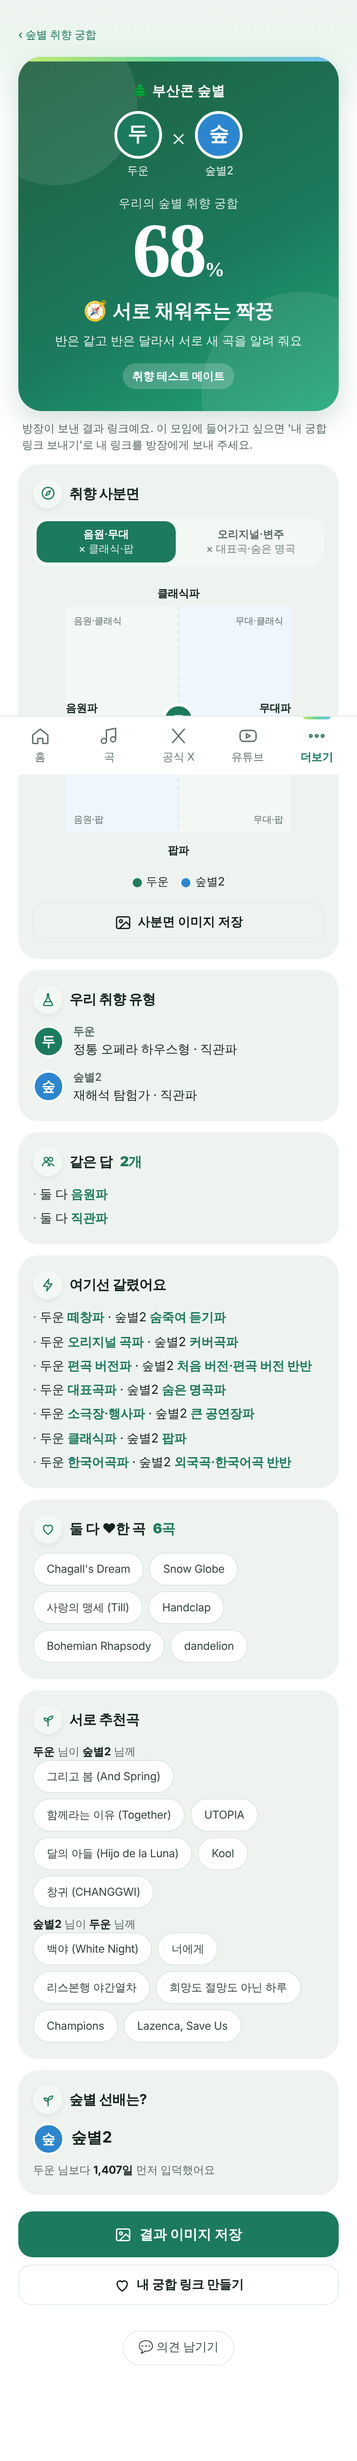
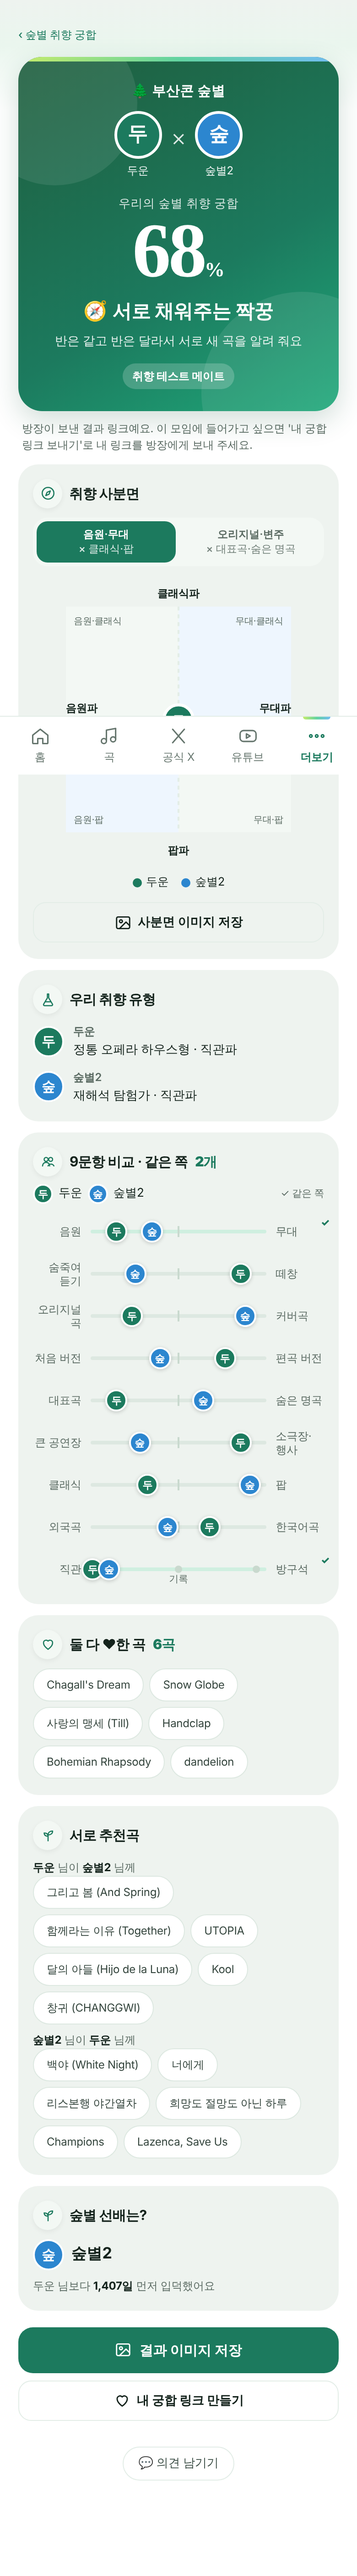
v625: 2명방 9문항 비교를 선 위 두 사람 점으로, '우리 모임은' 막대 색 테마 따라감
Claude-Session: https://claude.ai/code/session_01MGTh9zKioiZsMkgnkSk7j5

diff --git a/style.css b/style.css
@@ -2229,12 +2229,12 @@ a.wt-yes { display: flex; align-items: center; text-decoration: none; }
 .mt-rb b { font-size: 14px; overflow: hidden; text-overflow: ellipsis; white-space: nowrap; }
 .mt-rb small { font-size: 12px; color: var(--mute, #6B7A70); }
 .mt-rb-x { position: absolute; top: 50%; margin-top: -14px; right: 8px; width: 28px !important; height: 28px !important; z-index: 1; width: 26px; height: 26px; border: 0; background: none; color: var(--mute, #6B7A70); font-size: 16px; cursor: pointer; border-radius: 50%; }
-.mt-rb-add { flex-direction: row; align-items: center; justify-content: center; gap: 6px; padding: 10px 12px; border-style: dashed; background: none; font: inherit; font-size: 13.5px; font-weight: 700; color: var(--accent, #1C7A5E); cursor: pointer; }
+.mt-rb-add { flex-direction: row; align-items: center; justify-content: center; gap: 6px; padding: 10px 12px; border-style: dashed; background: none; font: inherit; font-size: 13.5px; font-weight: 700; color: var(--green); cursor: pointer; }
 .mt-rb-add span { font-size: 18px; line-height: 1; }
 .mt-room-again { width: 100%; margin: 8px 0 0; }
 .mt-room-z { display: grid; grid-template-columns: repeat(3, minmax(0, 1fr)); gap: 6px; }
 .mt-room-z label { display: grid; gap: 2px; padding: 10px 6px; border: 1px solid var(--line); border-radius: 12px; text-align: center; cursor: pointer; }
-.mt-room-z label:has(input:checked) { border-color: var(--accent, #1C7A5E); background: var(--tint-1, #F1F6F2); }
+.mt-room-z label:has(input:checked) { border-color: var(--green); background: var(--tint-1, #F1F6F2); }
 .mt-room-z input { position: absolute; opacity: 0; pointer-events: none; }
 .mt-room-z b { font-size: 13.5px; }
 .mt-room-z small { font-size: 11.5px; color: var(--mute, #6B7A70); }
@@ -2247,7 +2247,7 @@ a.wt-yes { display: flex; align-items: center; text-decoration: none; }
 .mt-ro-x { width: 28px; height: 28px; border: 0; background: none; color: var(--mute, #6B7A70); font-size: 17px; cursor: pointer; border-radius: 50%; }
 .mt-bars { list-style: none; margin: 0; padding: 0; display: grid; gap: 7px; }
 .mt-bars li { display: grid; grid-template-columns: 56px 1fr 22px; align-items: center; gap: 8px; font-size: 13px; }
-.mt-bars i { display: block; height: 10px; border-radius: 6px; background: var(--accent, #1C7A5E); min-width: 6px; }
+.mt-bars i { display: block; height: 10px; border-radius: 6px; background: var(--green); min-width: 6px; }
 .mt-bars b { text-align: right; }
 .mt-rb-add { min-height: 48px; }
 .mt-ed .mt-merge { margin-top: 12px; }
@@ -2262,9 +2262,26 @@ a.wt-yes { display: flex; align-items: center; text-decoration: none; }
 .mt-split .on { color: var(--ink, #1E2A22); font-weight: 700; }
 .sp-bar { display: flex; height: 24px; border-radius: 12px; overflow: hidden; background: var(--tint-1, #F1F6F2); }
 .sp-bar i { display: flex; align-items: center; justify-content: center; min-width: 22px; font-style: normal; font-size: 12px; font-weight: 700; color: #fff; white-space: nowrap; overflow: hidden; }
-.sp-bar .a { background: var(--accent, #1C7A5E); }
-.sp-bar .b { background: #2C86CF; }
+.sp-bar .a { background: var(--green); }
+.sp-bar .b { background: var(--h2c86cf, #2C86CF); }
 .sp-bar .h { background: var(--tint-2, #C9D9CE); color: var(--ink, #1E2A22); font-weight: 600; font-size: 11px; }
 .mt-card h2 { position: relative; flex-wrap: wrap; }
 .mt-card h2 span.help-pop { display: block; position: static; flex-basis: 100%; width: auto; height: auto; max-width: none; border-radius: 12px; background: #fff; box-shadow: 0 4px 14px rgba(28, 74, 56, 0.1); font-size: 12.5px; font-weight: 400; place-items: initial; }
 .mt-card h2 span.help-pop[hidden] { display: none; }
+/* 2명: 9문항 비교 선 */
+.pv-leg { display: flex; align-items: center; gap: 6px; flex-wrap: wrap; font-size: 13px; margin: -2px 0 10px; }
+.pv-leg .mt-av { width: 22px; height: 22px; font-size: 11px; }
+.pv-leg small { margin-left: auto; color: var(--muted); }
+.mt-pv { list-style: none; margin: 0; padding: 0; display: grid; gap: 6px; }
+.mt-pv li { position: relative; display: grid; grid-template-columns: 4.4em 1fr 4.4em; align-items: center; gap: 10px; min-height: 40px; font-size: 12px; color: var(--muted); }
+.mt-pv li.ok::after { content: '✓'; position: absolute; right: -6px; top: 2px; font-size: 11px; font-weight: 800; color: var(--green); }
+.pv-l { text-align: right; word-break: keep-all; line-height: 1.25; }
+.pv-r { word-break: keep-all; line-height: 1.25; }
+.pv-tr { position: relative; height: 4px; border-radius: 2px; background: var(--tint-2); }
+.mt-pv li.ok .pv-tr { background: var(--hcfefe0, #CFEFE0); }
+.pv-tr em { position: absolute; top: -4px; width: 2px; height: 12px; margin-left: -1px; background: var(--hc9d9ce, #C9D9CE); font-style: normal; }
+.pv-3 em { width: 8px; height: 8px; top: -2px; margin-left: -4px; border-radius: 50%; }
+.pv-3 em:nth-child(2) { font-size: 10.5px; line-height: 30px; text-indent: 0; white-space: nowrap; display: flex; justify-content: center; color: var(--muted); }
+.pv-dot { position: absolute; top: 50%; width: 24px; height: 24px; margin: -12px 0 0 -12px; border-radius: 50%; border: 2px solid #fff; display: grid; place-items: center; font-style: normal; font-size: 11px; font-weight: 700; color: #fff; box-shadow: 0 1px 4px rgba(0,0,0,.18); }
+.pv-dot.l { margin-left: -21px; }
+.pv-dot.r { margin-left: -3px; }

diff --git a/app.js b/app.js
@@ -5552,10 +5552,16 @@
       const side = (t, i) => { if (i === 8) return +t[16]; const v = tsVals(t)[i]; return v < 38 ? 0 : v > 62 ? 1 : 2; },
         lab = (i, v) => i === 8 ? TS_STYLE.o[v][1] : v === 2 ? `${tsShort(TS_Q[i], 0)}·${tsShort(TS_Q[i], 1)} 반반` : TS_Q[i].p[v];
       if (tp.length === 2) {
-        const [[a], [b]] = tp, same = [], diff = [];
-        for (let i = 0; i < 9; i++) { const x = side(a.t, i), y = side(b.t, i); (x === y ? same : diff).push(x === y ? `둘 다 <b>${lab(i, x)}</b>` : `${esc(a.n)} <b>${lab(i, x)}</b> · ${esc(b.n)} <b>${lab(i, y)}</b>`); }
-        cards.push(card1('🤝', `같은 답 <b>${same.length}개</b>`, same.length ? `<ul class="ts-lines">${same.map(x => `<li>${x}</li>`).join('')}</ul>` : '<p class="mt-sub">하나도 안 겹쳐요. 그래서 더 재밌어요</p>'));
-        if (diff.length) cards.push(card1('⚡', '여기선 갈렸어요', `<ul class="ts-lines">${diff.map(x => `<li>${x}</li>`).join('')}</ul>`));
+        // 2명: 문항마다 한 줄 선 위에 두 사람 점 (실제 답 위치), 같은 쪽이면 ✓
+        const [[a, ai], [b, bi]] = tp, SL = [L3('직관', 'Live', '現場'), L3('기록', 'Records', '記録'), L3('방구석', 'At home', 'おうち')];
+        const dot = (p, ci, x, up) => `<i class="pv-dot${up === 'r' ? ' r' : up ? ' l' : ''}" style="left:${6 + x * 0.88}%;background:${MT_COL[ci % MT_COL.length]}">${esc([...p.n][0] || '?')}</i>`;
+        let same = 0;
+        const rowsH = [...Array(9).keys()].map(i => { const ok = side(a.t, i) === side(b.t, i); if (ok) same++;
+          if (i === 8) { const xa = [0, 50, 100][+a.t[16]], xb = [0, 50, 100][+b.t[16]];
+            return `<li class="${ok ? 'ok' : ''}"><span class="pv-l">${SL[0]}</span><span class="pv-tr pv-3"><em style="left:6%"></em><em style="left:50%">${SL[1]}</em><em style="left:94%"></em>${dot(a, ai, xa, ok)}${dot(b, bi, xb, ok ? 'r' : false)}</span><span class="pv-r">${SL[2]}</span></li>`; }
+          const va = tsVals(a.t)[i], vb = tsVals(b.t)[i], near = Math.abs(va - vb) < 9;
+          return `<li class="${ok ? 'ok' : ''}"><span class="pv-l">${tsShort(TS_Q[i], 0)}</span><span class="pv-tr"><em style="left:50%"></em>${dot(a, ai, va, near)}${dot(b, bi, vb, near ? 'r' : false)}</span><span class="pv-r">${tsShort(TS_Q[i], 1)}</span></li>`; }).join('');
+        cards.push(card1('🤝', `${L3('9문항 비교', 'All 9 answers', '9問の比較')} · ${L3('같은 쪽', 'same side', '同じ側')} <b>${same}${L3('개', '', '問')}</b>`, `<div class="pv-leg">${mtAv(a, ai)} ${esc(a.n)} ${mtAv(b, bi)} ${esc(b.n)} <small>${L3('✓ 같은 쪽', '✓ same side', '✓ 同じ側')}</small></div><ul class="mt-pv">${rowsH}</ul>`));
       } else {
         // 문항마다 한 줄 막대: 왼쪽 답 | 반반(연한 칸) | 오른쪽 답, 칸 안에 사람 수
         const rows = [...Array(9).keys()].map(i => { const c = [0, 0, 0]; tp.forEach(([p]) => c[side(p.t, i)]++); return { i, c }; });

diff --git a/index.html b/index.html
@@ -23,7 +23,7 @@
 <link href="https://fonts.googleapis.com/css2?family=Gowun+Batang:wght@400;700&display=swap" rel="stylesheet">
 <link rel="stylesheet" href="https://cdn.jsdelivr.net/gh/orioncactus/pretendard@v1.3.9/dist/web/variable/pretendardvariable-dynamic-subset.min.css">
 <script>try{var d=JSON.parse(localStorage.getItem('sb-deco')||'{}');if(d.t)document.documentElement.dataset.theme=d.t;if(d.f)document.documentElement.dataset.fs=d.f}catch(e){}</script>
-<link rel="stylesheet" href="style.css?v=624">
+<link rel="stylesheet" href="style.css?v=625">
 </head>
 <body>
 <div class="app">
@@ -46,9 +46,9 @@
 <!-- 방문자 수 (GoatCounter: 쿠키·개인정보 없이 화면별 방문 수만 세요) -->
 <script data-goatcounter="https://soopbyeol.goatcounter.com/count" data-goatcounter-settings='{"no_onload": true}' async src="https://gc.zgo.at/count.js"></script>
 <script src="lib/fuse.min.js"></script>
-<script src="i18n.js?v=624"></script>
-<script src="config.js?v=624"></script>
-<script src="data.js?v=624"></script>
-<script src="app.js?v=624"></script>
+<script src="i18n.js?v=625"></script>
+<script src="config.js?v=625"></script>
+<script src="data.js?v=625"></script>
+<script src="app.js?v=625"></script>
 </body>
 </html>

diff --git a/sw.js b/sw.js
@@ -1,6 +1,6 @@
 // 한 번 연 화면 파일을 저장해 두고, 다음부터 빨리 열거나 인터넷이 없을 때 써요.
 // 시트 데이터는 data.js가 따로 저장하니까 여기서는 사이트 파일만 다뤄요.
-const CACHE = 'soopbyeol-v624';
+const CACHE = 'soopbyeol-v625';
 const SHELL = ['./', 'index.html', 'style.css?v=162', 'config.js?v=162', 'data.js?v=162', 'app.js?v=162', 'lib/fuse.min.js', 'manifest.webmanifest', 'icons/icon-192.png'];
 
 self.addEventListener('install', ev => {
